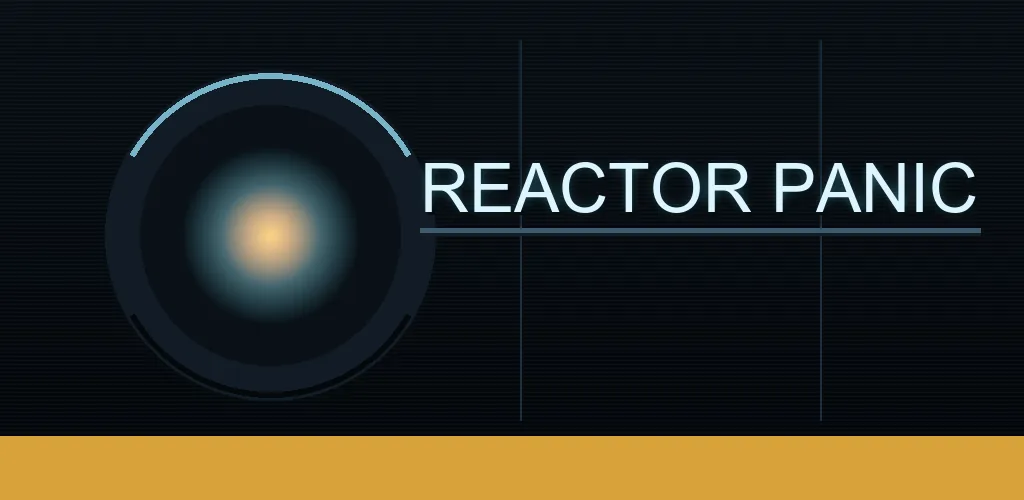
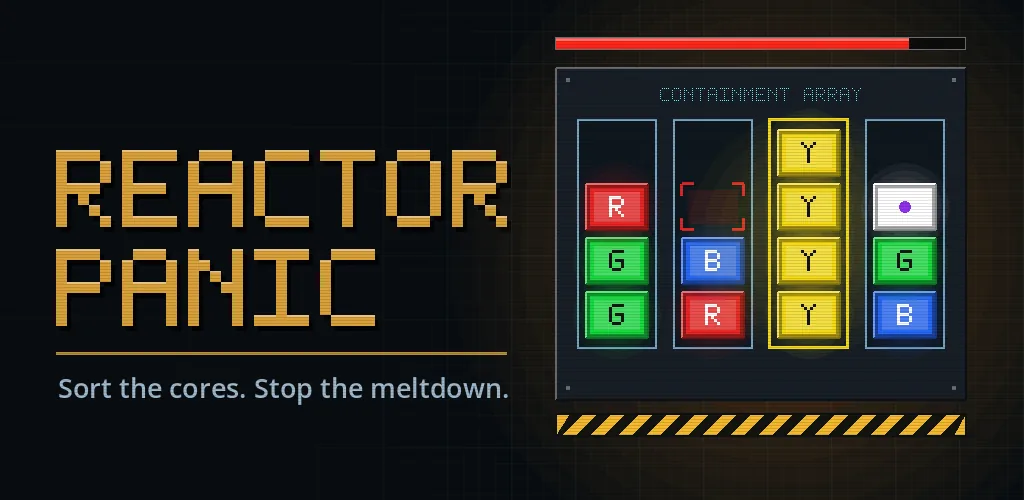
Reactor Panic card: redrawn feature graphic (reactor-panic #18)

diff --git a/docs/CURRENT_SPRINT.md b/docs/CURRENT_SPRINT.md
@@ -41,7 +41,7 @@ Held until then: new titles, the rest of the site rework (P2.1b), and suite road
 ## Work log
 
 ### 2026-10-08
-- Pomodorable card takes the new P1.6 feature graphic. Tea Tower is live on Google Play: Play link on its card (its "In development" pill dropped) and on `/promo-games/`. The Firebase owner gate was stale: the apps and configs exist since 2026-10-02. Next: owner starts outreach (step 1).
+- Pomodorable card takes the new P1.6 feature graphic; Reactor Panic's takes its redrawn one (from reactor-panic #18, open; card stays solid amber, checked in the browser). Tea Tower is live on Google Play: Play link on its card (its "In development" pill dropped) and on `/promo-games/`. The Firebase owner gate was stale: the apps and configs exist since 2026-10-02. Next: owner starts outreach (step 1).
 
 ### 2026-10-07
 - P2.1c: Labs retired. Card anchors on the homepage; `/promo-games/` in the D-012 look, footer links to `/#<card>`; `/labs/` a noindex redirect to `/#games`, out of the sitemap; chatbot prompt drops Labs; VERA's dead `/#pricing` link fixed. `tests/test_labs_retired.py` 7 red → 7 green. Gate cycles: 2 (format). Codex round 1: no findings. Next: owner review.
